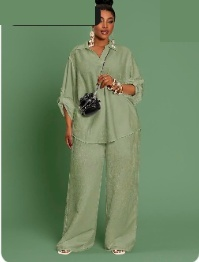
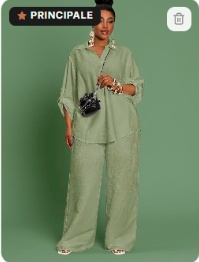
Nettoyage photo et tolerance slug admin

Changed region(s): [[0.0, 0.0, 0.4824, 0.1221], [0.8141, 0.0, 0.9648, 0.1221], [0.9648, 0.0, 1.0, 0.0305]]

diff --git a/app/admin/produits/[id]/page.tsx b/app/admin/produits/[id]/page.tsx
@@ -60,7 +60,9 @@ export default function EditProductPage() {
         }
         const data = await res.json();
         if (data.success) {
-          const found = data.products.find((p: Product) => p.id === id || p.slug === id);
+          const found = data.products.find((p: Product) => 
+            p.id === id || p.slug === id || (id.includes('lin') && id.includes('femme') && (p.slug || p.id).includes('lin') && (p.slug || p.id).includes('femme'))
+          );
           if (found) {
             setName(found.name);
             setCategory(found.category);
